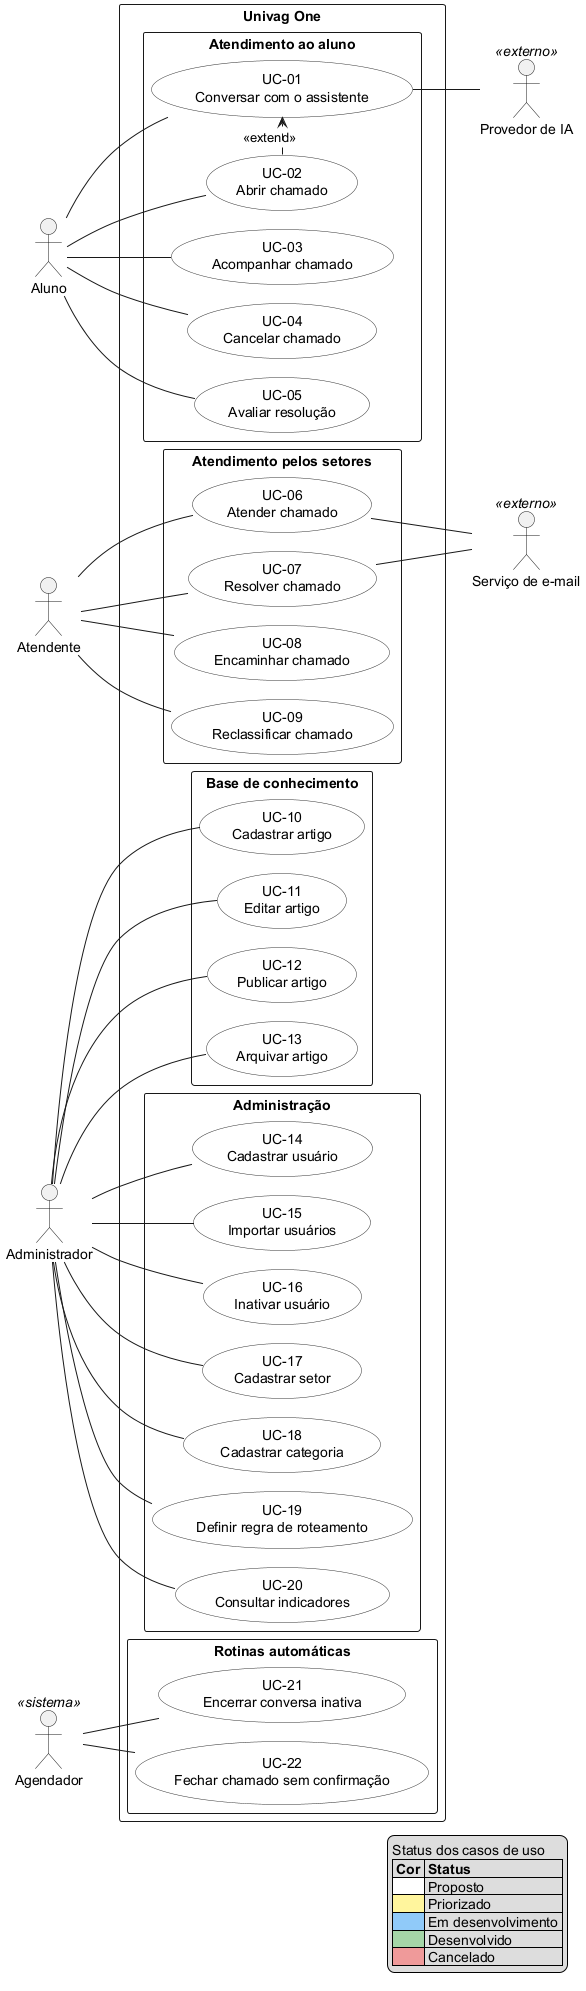
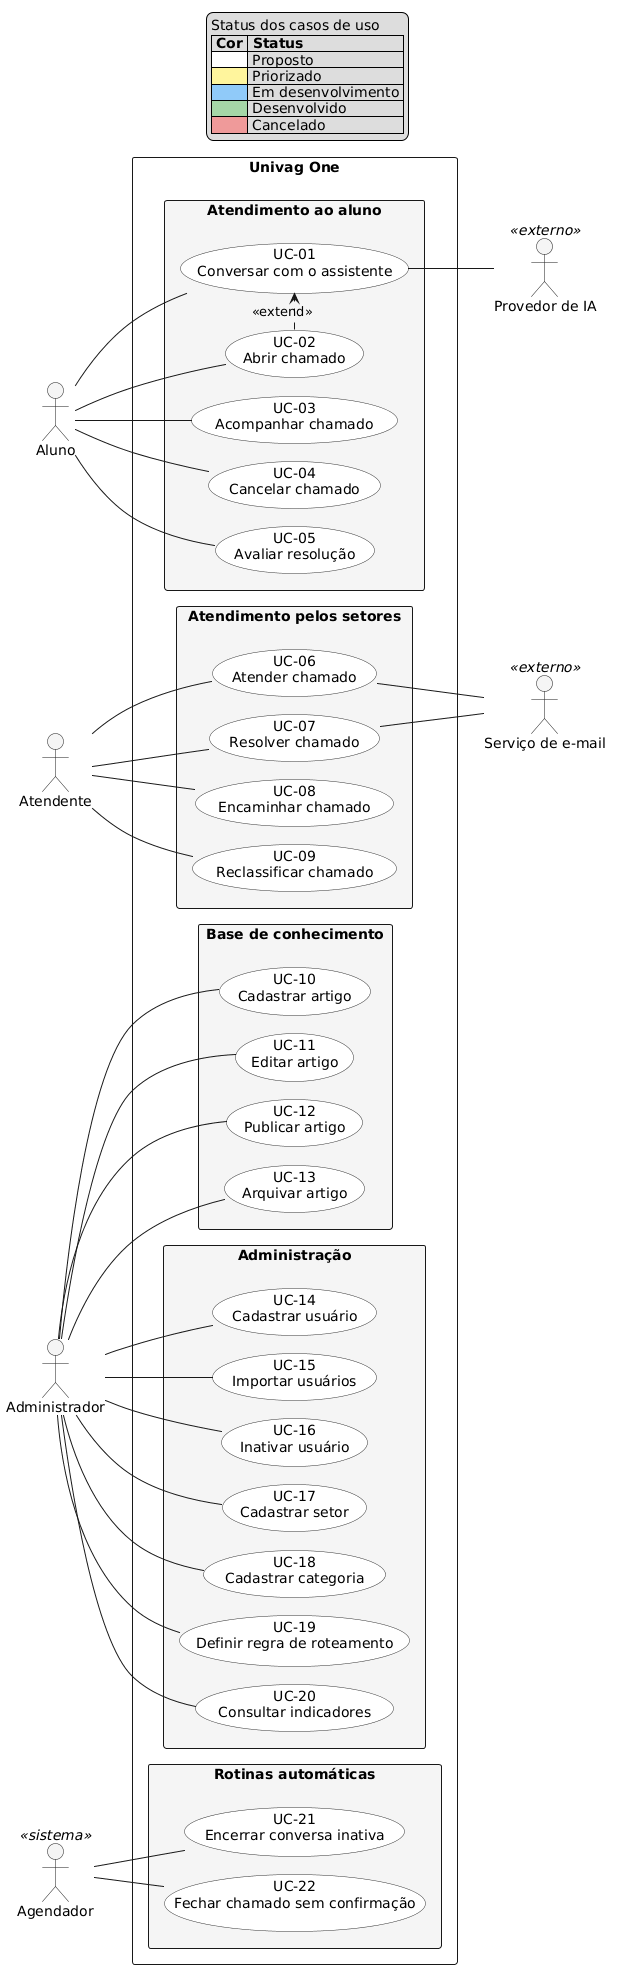
docs(figuras): redraw use-case diagram with the legend on top

diff --git a/docs/02-especificacao-do-projeto.md b/docs/02-especificacao-do-projeto.md
@@ -270,7 +270,7 @@ Fonte: elaborado pelos autores com base no Manual do PEI (UNIVAG, 2026).
 
 A Figura 2.2 mostra os 22 casos de uso do produto mínimo viável e os atores ligados a eles por linhas simples. Os atores são os três perfis de usuário (Aluno, Atendente e Administrador), dois sistemas externos (Provedor de IA e Serviço de e-mail) e o Agendador, que encerra conversas e fecha chamados quando um prazo vence. Os casos de uso estão agrupados em cinco pacotes: Atendimento ao aluno, Atendimento pelos setores, Base de conhecimento, Administração e Rotinas automáticas. O caso de uso Abrir chamado estende Conversar com o assistente, porque só acontece quando a conversa não resolve a dúvida.
 
-A cor de cada caso de uso mostra o status, conforme a legenda do diagrama: branco para Proposto, amarelo para Priorizado, azul para Em desenvolvimento, verde para Desenvolvido e vermelho para Cancelado. Todos os casos de uso estão como Proposto. Muitos deles já aparecem no protótipo visual, mas o protótipo não tem *back-end*, então nenhum está marcado como Desenvolvido.
+A cor de cada caso de uso mostra o status, conforme a legenda no topo do diagrama: branco para Proposto, amarelo para Priorizado, azul para Em desenvolvimento, verde para Desenvolvido e vermelho para Cancelado. Todos os casos de uso estão como Proposto. Muitos deles já aparecem no protótipo visual, mas o protótipo não tem *back-end*, então nenhum está marcado como Desenvolvido.
 
 Em relação à versão anterior, o caso de uso Autenticar-se foi retirado, porque a entrada no sistema não é um objetivo do usuário: ela é feita pelo ASP.NET Core Identity e está especificada como requisito não funcional (RNF-15, com RNF-05, RNF-12 e RNF-14). Os antigos casos de uso Gerenciar base de conhecimento, Gerenciar usuários e Configurar setores, categorias e roteamento viraram um caso de uso por operação. Os casos de uso que reuniam mais de uma operação, como Acompanhar chamado, Atender chamado e Encerrar conversas e chamados por prazo, também foram divididos.
 
